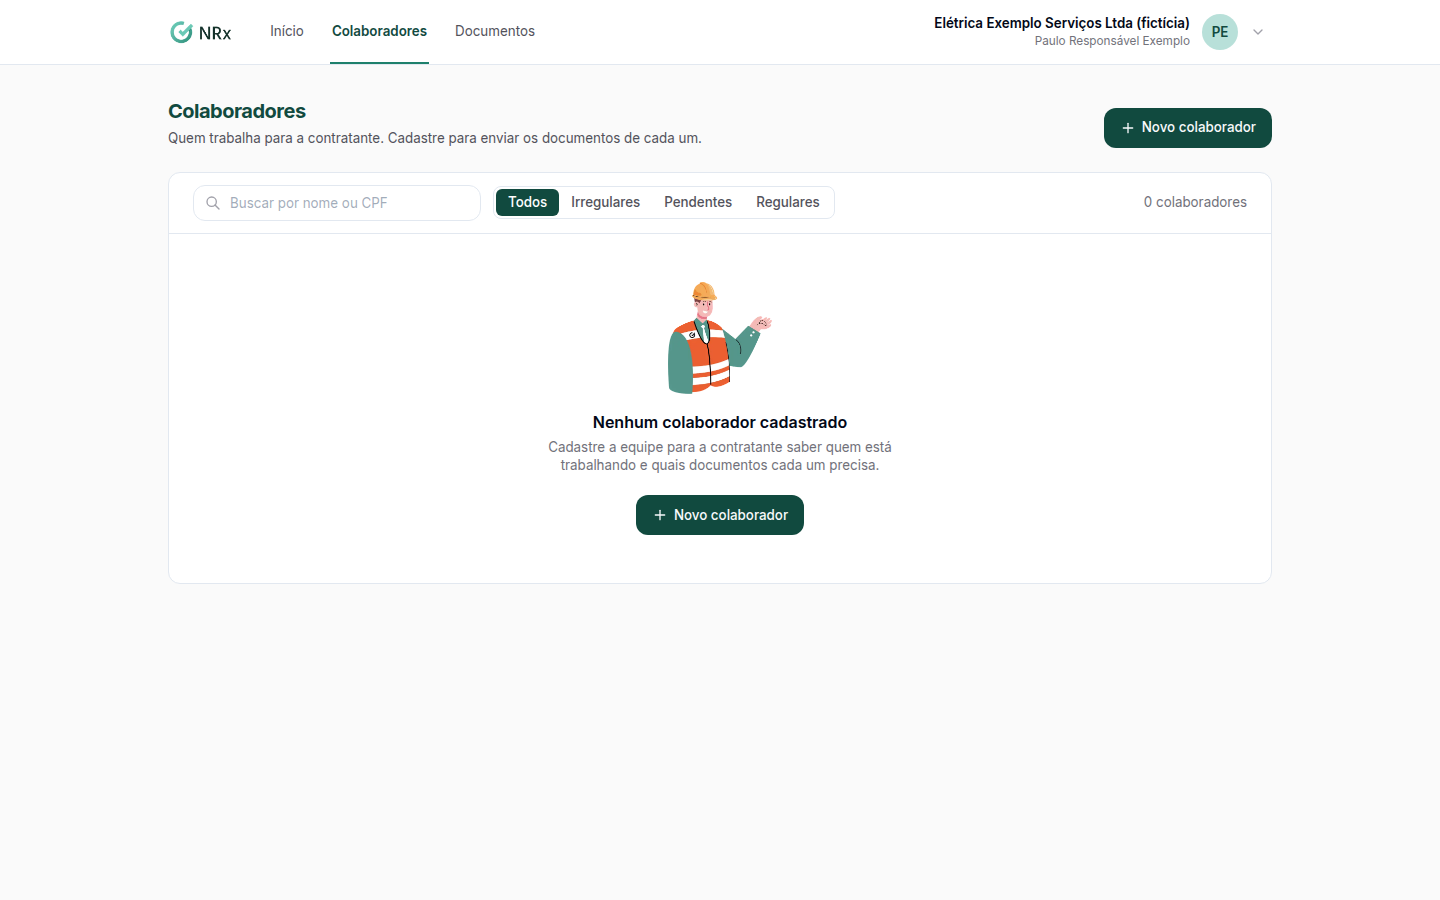
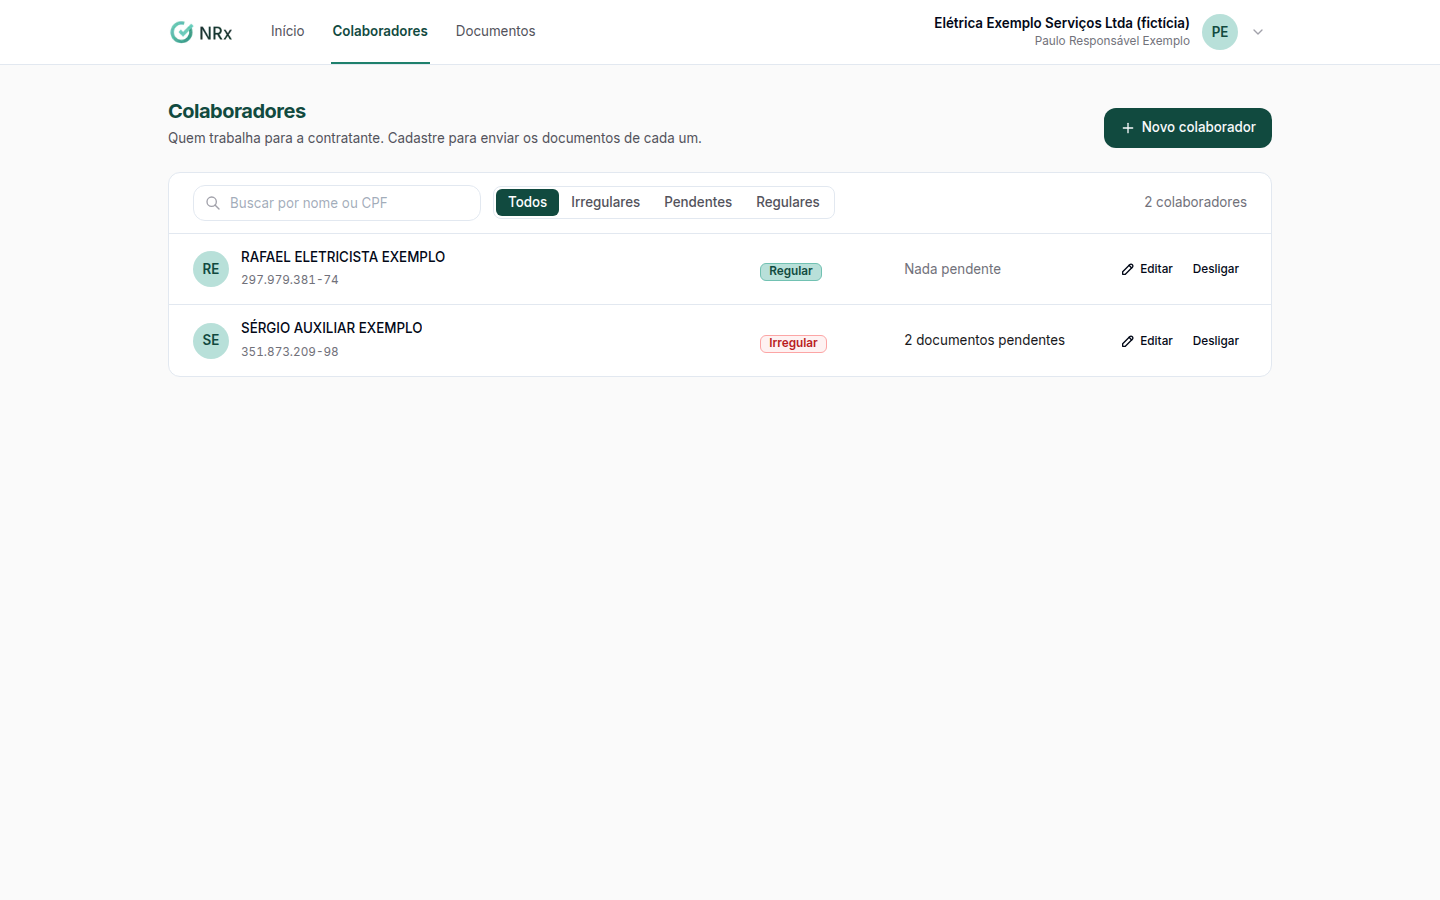
docs: prints do DDS, Documentos e NF-e; associação do item não identificado

diff --git a/epi/gestao-estoque/itens/importar-nfe.md b/epi/gestao-estoque/itens/importar-nfe.md
@@ -41,19 +41,21 @@ layout:
 
 Clique em **Inventário › Gerenciar Inventário** e em **Ações › Importar via NF-e XML**. Arraste o XML e clique em **Analisar NF-e**.
 
-<figure><img src="../../.gitbook/assets/inventario-nfe-01.png" alt="Revisão da NF-e com o número da nota, o emitente, os itens e o centro de estoque"><figcaption><p>Revisão da NF-e</p></figcaption></figure>
+<figure><img src="../../.gitbook/assets/inventario-nfe-01.png" alt="Revisão da NF-e com o número da nota, o emitente e itens não identificados com os campos Item do sistema e Centro de estoque"><figcaption><p>Revisão da NF-e</p></figcaption></figure>
 {% endstep %}
 
 {% step %}
 ### Revise
 
 Em **Revisão da NF-e**, confira o **Nº da NF**, o **Emitente** e os **Itens**. Escolha o **Centro de estoque para todos** (ou um por item).
+
+O item da nota que o GNRx não reconheceu aparece como **não identificado**. Em **Item do sistema**, busque e escolha o item correspondente. Se quiser, informe o **Nº do lote**. Enquanto houver itens pendentes, o rodapé mostra quantos faltam.
 {% endstep %}
 
 {% step %}
 ### Importe
 
-Confirme. Aparece **Importação concluída** (ou **Concluído com erros**, com a lista de erros).
+Clique em **Importar** (o botão mostra quantos itens). Aparece **Importação concluída** (ou **Concluído com erros**, com a lista de erros).
 {% endstep %}
 {% endstepper %}
 
